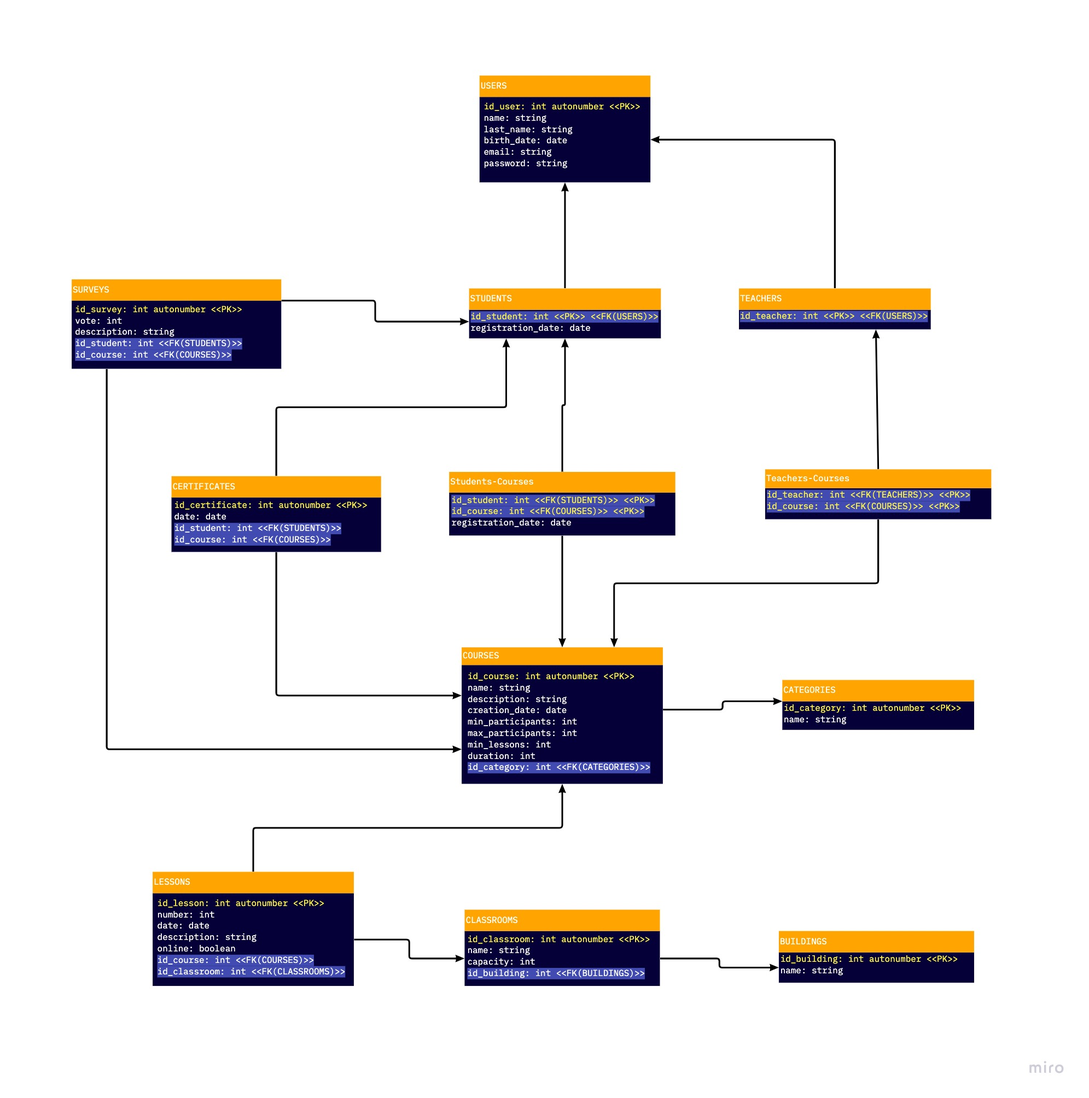
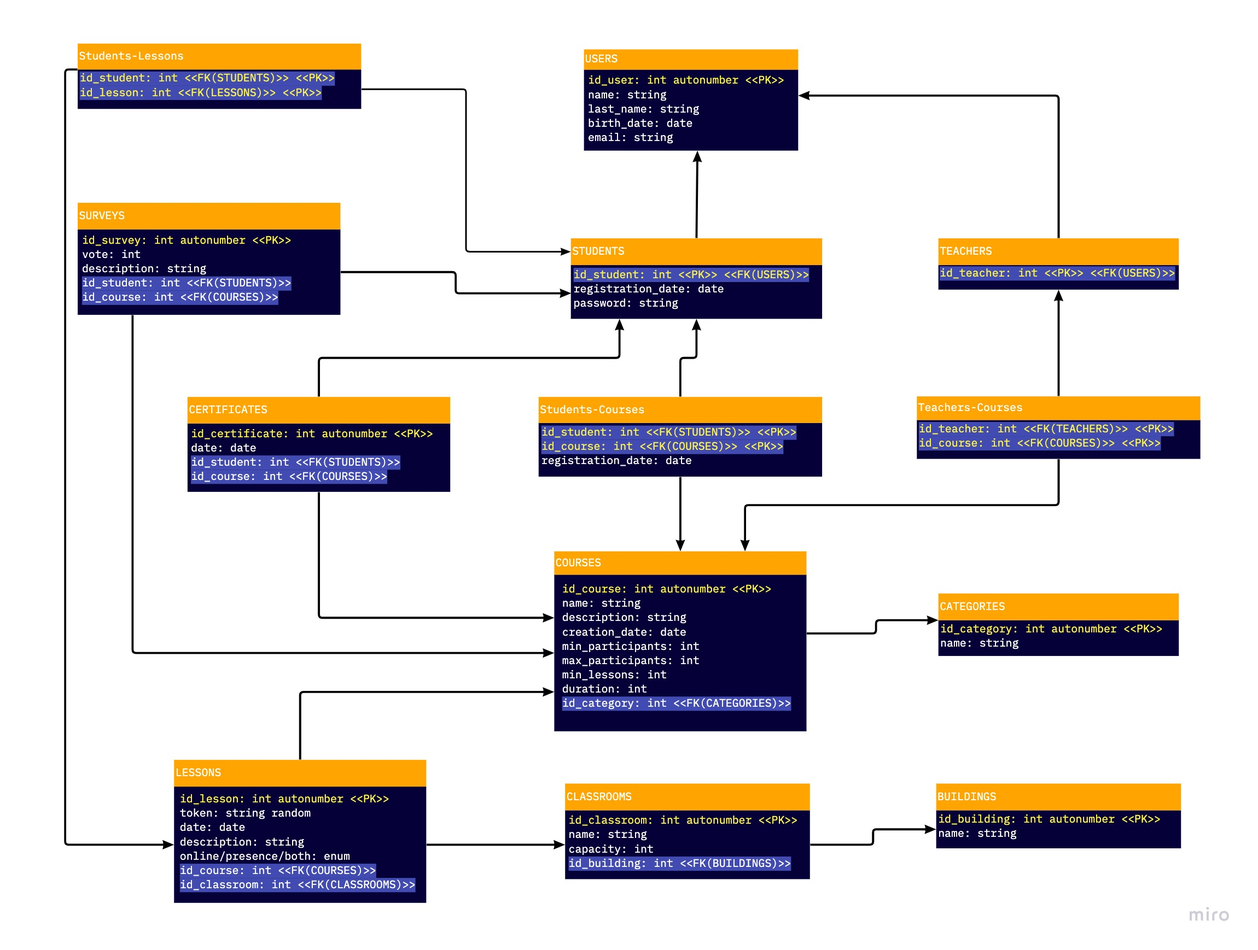
updated documentation
- created db
- finished db definitions
- finisched shemas definitions

diff --git a/docs/html/pcto_webapp_plan.html b/docs/html/pcto_webapp_plan.html
@@ -2,7 +2,7 @@
 <html lang="en">
 <head>
 <title>PCTO Webapp Plan</title>
-<!-- 2022-04-20 Wed 22:20 -->
+<!-- 2022-04-22 Fri 19:11 -->
 <meta charset="utf-8">
 <meta name="viewport" content="width=device-width, initial-scale=1">
 <meta name="generator" content="Org-mode">
@@ -211,6 +211,7 @@ $(function() {
 <li><a href="#sec-8">8. Progettazione vincoli di integrità</a>
 <ul class="nav">
 <li><a href="#sec-8-1">8.1. CHECKS nella creazione delle tabelle</a></li>
+<li><a href="#sec-8-2">8.2. Triggers</a></li>
 </ul>
 </li>
 </ul>
@@ -329,17 +330,19 @@ $(function() {
 
 <li>Le <b>Lezioni</b> sono formate da:
 <ul class="org-ul">
-<li>numero identificativo progressivo (esempio: lezione numero <b>5</b> del corso X)
+<li>token identificativo per partecipare
 </li>
 <li>descrizione degli argomenti spiegati
 </li>
 <li>Aula di esecuzione con la relativa capienza. (zoom se è online)
 </li>
-<li>flag che indica se la lezione è online o in presenza
+<li>enum che indica se la lezione è online o in presenza o entrambi
 </li>
 <li>corso di riferimento
 </li>
 <li>numero di iscrizioni (da confrontare con la capienza dell&rsquo;aula)
+</li>
+<li>il token viene mostrato nella dashboard dei docenti e verrà reso pubblico da loro. Gli studenti potranno certificare la presenza inserendo il token nella pagina della lezione oppure cliccando il bottone &ldquo;Partecipa&rdquo; -&gt; da pensare.
 </li>
 </ul>
 <p>
@@ -435,7 +438,7 @@ $(function() {
 </li>
 <li><code>[X]</code> Aggiungere tabella <b>Categorie</b> e aggiungere il campo in Corsi
 </li>
-<li><code>[&#xa0;]</code> Creazione <b>database</b>
+<li><code>[X]</code> Creazione <b>database</b>
 </li>
 </ul>
 <p>
@@ -520,133 +523,148 @@ $(function() {
 <div class="outline-text-3" id="text-8-1">
 <div class="org-src-container">
 
-<pre class="src src-sql">    <span style="color: #928374;">-- </span><span style="color: #928374;">tabella utenti</span>
-    <span style="color: #fb4934;">CREATE</span> <span style="color: #fb4934;">TABLE</span> <span style="color: #b8bb26;">users</span> (
-        id_user <span style="color: #fabd2f;">INT</span> AUTO_INCREMENT,
-        first_name <span style="color: #fabd2f;">VARCHAR</span>(<span style="color: #d3869b; font-weight: bold;">20</span>) <span style="color: #fb4934;">NOT</span> <span style="color: #fb4934;">NULL</span>,
-        last_name <span style="color: #fabd2f;">VARCHAR</span>(<span style="color: #d3869b; font-weight: bold;">20</span>) <span style="color: #fb4934;">NOT</span> <span style="color: #fb4934;">NULL</span>,
-        birth_date <span style="color: #fabd2f;">DATE</span> <span style="color: #fb4934;">NOT</span> <span style="color: #fb4934;">NULL</span>,
-        email <span style="color: #fabd2f;">VARCHAR</span>(<span style="color: #d3869b; font-weight: bold;">30</span>) <span style="color: #fb4934;">NOT</span> <span style="color: #fb4934;">NULL</span>,
-        password <span style="color: #fabd2f;">VARCHAR</span>(<span style="color: #d3869b; font-weight: bold;">15</span>) <span style="color: #fb4934;">NOT</span> <span style="color: #fb4934;">NULL</span>
-        <span style="color: #fb4934;">PRIMARY</span> <span style="color: #fb4934;">KEY</span>(id_user),
+<pre class="src src-sql">    <span style="color: #a89984;">-- </span><span style="color: #a89984;">tabella utenti</span>
+    <span style="color: #9d0006;">CREATE</span> <span style="color: #9d0006;">TABLE</span> <span style="color: #b57614;">users</span> (
+        id_user <span style="color: #8f3f71;">INT</span> AUTO_INCREMENT,
+        first_name <span style="color: #8f3f71;">VARCHAR</span>(<span style="color: #8f3f71; font-weight: bold;">20</span>) <span style="color: #9d0006;">NOT</span> <span style="color: #9d0006;">NULL</span>,
+        last_name <span style="color: #8f3f71;">VARCHAR</span>(<span style="color: #8f3f71; font-weight: bold;">20</span>) <span style="color: #9d0006;">NOT</span> <span style="color: #9d0006;">NULL</span>,
+        birth_date <span style="color: #8f3f71;">DATE</span> <span style="color: #9d0006;">NOT</span> <span style="color: #9d0006;">NULL</span>,
+        email <span style="color: #8f3f71;">VARCHAR</span>(<span style="color: #8f3f71; font-weight: bold;">30</span>) <span style="color: #9d0006;">NOT</span> <span style="color: #9d0006;">NULL</span>,
+        <span style="color: #9d0006;">PRIMARY</span> <span style="color: #9d0006;">KEY</span>(id_user)
     );
 
-    <span style="color: #928374;">-- </span><span style="color: #928374;">tabella docenti</span>
-    <span style="color: #fb4934;">CREATE</span> <span style="color: #fb4934;">TABLE</span> <span style="color: #b8bb26;">teachers</span> (
-        id_teacher <span style="color: #fabd2f;">INT</span>,
-        <span style="color: #fb4934;">PRIMARY</span> <span style="color: #fb4934;">KEY</span>(id_teacher),
-        <span style="color: #fb4934;">FOREIGN</span> <span style="color: #fb4934;">KEY</span>(id_teacher) <span style="color: #fb4934;">REFERENCES</span> users(id_user)
+    <span style="color: #a89984;">-- </span><span style="color: #a89984;">tabella docenti</span>
+    <span style="color: #9d0006;">CREATE</span> <span style="color: #9d0006;">TABLE</span> <span style="color: #b57614;">teachers</span> (
+        id_teacher <span style="color: #8f3f71;">INT</span>,
+        <span style="color: #9d0006;">PRIMARY</span> <span style="color: #9d0006;">KEY</span>(id_teacher),
+        <span style="color: #9d0006;">FOREIGN</span> <span style="color: #9d0006;">KEY</span>(id_teacher) <span style="color: #9d0006;">REFERENCES</span> users(id_user)
     );
 
-    <span style="color: #928374;">-- </span><span style="color: #928374;">tabella studenti</span>
-    <span style="color: #fb4934;">CREATE</span> <span style="color: #fb4934;">TABLE</span> <span style="color: #b8bb26;">students</span> (
-        id_student <span style="color: #fabd2f;">INT</span>,
-        registration_date <span style="color: #fabd2f;">DATE</span> <span style="color: #fb4934;">NOT</span> <span style="color: #fb4934;">NULL</span>
-        <span style="color: #fb4934;">PRIMARY</span> <span style="color: #fb4934;">KEY</span>(id_student),
-        <span style="color: #fb4934;">FOREIGN</span> <span style="color: #fb4934;">KEY</span>(id_student) <span style="color: #fb4934;">REFERENCES</span> users(id_user)
+    <span style="color: #a89984;">-- </span><span style="color: #a89984;">tabella studenti</span>
+    <span style="color: #9d0006;">CREATE</span> <span style="color: #9d0006;">TABLE</span> <span style="color: #b57614;">students</span> (
+        id_student <span style="color: #8f3f71;">INT</span>,
+        registration_date <span style="color: #8f3f71;">DATE</span> <span style="color: #9d0006;">NOT</span> <span style="color: #9d0006;">NULL</span>,
+        password <span style="color: #8f3f71;">VARCHAR</span>(<span style="color: #8f3f71; font-weight: bold;">15</span>) <span style="color: #9d0006;">NOT</span> <span style="color: #9d0006;">NULL</span>,
+        <span style="color: #9d0006;">PRIMARY</span> <span style="color: #9d0006;">KEY</span>(id_student),
+        <span style="color: #9d0006;">FOREIGN</span> <span style="color: #9d0006;">KEY</span>(id_student) <span style="color: #9d0006;">REFERENCES</span> users(id_user)
     );
 
-    <span style="color: #928374;">-- </span><span style="color: #928374;">tabella categorie</span>
-    <span style="color: #fb4934;">CREATE</span> <span style="color: #fb4934;">TABLE</span> <span style="color: #b8bb26;">categories</span> (
-        id_category <span style="color: #fabd2f;">INT</span> AUTO_INCREMENT,
-        c_name <span style="color: #fabd2f;">VARCHAR</span>(<span style="color: #d3869b; font-weight: bold;">50</span>) <span style="color: #fb4934;">NOT</span> <span style="color: #fb4934;">NULL</span>
-        <span style="color: #fb4934;">PRIMARY</span> <span style="color: #fb4934;">KEY</span>(id_category)
+    <span style="color: #a89984;">-- </span><span style="color: #a89984;">tabella categorie</span>
+    <span style="color: #9d0006;">CREATE</span> <span style="color: #9d0006;">TABLE</span> <span style="color: #b57614;">categories</span> (
+        id_category <span style="color: #8f3f71;">INT</span> AUTO_INCREMENT,
+        c_name <span style="color: #8f3f71;">VARCHAR</span>(<span style="color: #8f3f71; font-weight: bold;">50</span>) <span style="color: #9d0006;">NOT</span> <span style="color: #9d0006;">NULL</span>,
+        <span style="color: #9d0006;">PRIMARY</span> <span style="color: #9d0006;">KEY</span>(id_category)
     );
 
-    <span style="color: #928374;">-- </span><span style="color: #928374;">tabella corsi</span>
-    <span style="color: #fb4934;">CREATE</span> <span style="color: #fb4934;">TABLE</span> <span style="color: #b8bb26;">courses</span> (
-        id_course <span style="color: #fabd2f;">INT</span> AUTO_INCREMENT,
-        c_name <span style="color: #fabd2f;">VARCHAR</span>(<span style="color: #d3869b; font-weight: bold;">30</span>) <span style="color: #fb4934;">NOT</span> <span style="color: #fb4934;">NULL</span>,
-        description <span style="color: #fabd2f;">VARCHAR</span>(<span style="color: #d3869b; font-weight: bold;">100</span>),
-        creation_date <span style="color: #fabd2f;">DATE</span> <span style="color: #fb4934;">NOT</span> <span style="color: #fb4934;">NULL</span>,
-        max_partecipants <span style="color: #fabd2f;">INT</span> <span style="color: #fb4934;">CHECK</span>(max_partecipants &gt; <span style="color: #d3869b; font-weight: bold;">0</span>),
-        min_partecipants <span style="color: #fabd2f;">INT</span> <span style="color: #fb4934;">CHECK</span>(min_partecipants &gt; <span style="color: #d3869b; font-weight: bold;">0</span>),
-        min_lessons <span style="color: #fabd2f;">INT</span> <span style="color: #fb4934;">NOT</span> <span style="color: #fb4934;">NULL</span> <span style="color: #fb4934;">CHECK</span>(min_lessons &gt;= <span style="color: #d3869b; font-weight: bold;">0</span>),
-        duration <span style="color: #fabd2f;">INT</span> <span style="color: #fb4934;">NOT</span> <span style="color: #fb4934;">NULL</span> <span style="color: #fb4934;">CHECK</span>(duration &gt; <span style="color: #d3869b; font-weight: bold;">0</span>),
-        id_category <span style="color: #fabd2f;">INT</span> <span style="color: #fb4934;">NOT</span> <span style="color: #fb4934;">NULL</span>,
-        <span style="color: #fb4934;">PRIMARY</span> <span style="color: #fb4934;">KEY</span>(id_course),
-        <span style="color: #fb4934;">FOREIGN</span> <span style="color: #fb4934;">KEY</span>(id_category) <span style="color: #fb4934;">REFERENCES</span> categories(id_category)
+    <span style="color: #a89984;">-- </span><span style="color: #a89984;">tabella corsi</span>
+    <span style="color: #9d0006;">CREATE</span> <span style="color: #9d0006;">TABLE</span> <span style="color: #b57614;">courses</span> (
+        id_course <span style="color: #8f3f71;">INT</span> AUTO_INCREMENT,
+        c_name <span style="color: #8f3f71;">VARCHAR</span>(<span style="color: #8f3f71; font-weight: bold;">30</span>) <span style="color: #9d0006;">NOT</span> <span style="color: #9d0006;">NULL</span>,
+        description <span style="color: #8f3f71;">VARCHAR</span>(<span style="color: #8f3f71; font-weight: bold;">100</span>),
+        creation_date <span style="color: #8f3f71;">DATE</span> <span style="color: #9d0006;">NOT</span> <span style="color: #9d0006;">NULL</span>,
+        max_partecipants <span style="color: #8f3f71;">INT</span> <span style="color: #9d0006;">CHECK</span>(max_partecipants &gt; <span style="color: #8f3f71; font-weight: bold;">0</span>),
+        min_partecipants <span style="color: #8f3f71;">INT</span> <span style="color: #9d0006;">CHECK</span>(min_partecipants &gt; <span style="color: #8f3f71; font-weight: bold;">0</span>),
+        min_lessons <span style="color: #8f3f71;">INT</span> <span style="color: #9d0006;">NOT</span> <span style="color: #9d0006;">NULL</span> <span style="color: #9d0006;">CHECK</span>(min_lessons &gt;= <span style="color: #8f3f71; font-weight: bold;">0</span>),
+        duration <span style="color: #8f3f71;">INT</span> <span style="color: #9d0006;">NOT</span> <span style="color: #9d0006;">NULL</span> <span style="color: #9d0006;">CHECK</span>(duration &gt; <span style="color: #8f3f71; font-weight: bold;">0</span>),
+        id_category <span style="color: #8f3f71;">INT</span> <span style="color: #9d0006;">NOT</span> <span style="color: #9d0006;">NULL</span>,
+        <span style="color: #9d0006;">PRIMARY</span> <span style="color: #9d0006;">KEY</span>(id_course),
+        <span style="color: #9d0006;">FOREIGN</span> <span style="color: #9d0006;">KEY</span>(id_category) <span style="color: #9d0006;">REFERENCES</span> categories(id_category)
     );
 
-    <span style="color: #928374;">-- </span><span style="color: #928374;">tabella studenti-corsi</span>
-    <span style="color: #fb4934;">CREATE</span> <span style="color: #fb4934;">TABLE</span> <span style="color: #b8bb26;">students</span>-courses (
-        id_student <span style="color: #fabd2f;">INT</span>,
-        id_course <span style="color: #fabd2f;">INT</span>,
-        registration_date <span style="color: #fabd2f;">date</span> <span style="color: #fb4934;">NOT</span> <span style="color: #fb4934;">NULL</span>,
-        <span style="color: #fb4934;">PRIMARY</span> <span style="color: #fb4934;">KEY</span>(id_student, id_course)
+    <span style="color: #a89984;">-- </span><span style="color: #a89984;">tabella studenti-corsi</span>
+    <span style="color: #9d0006;">CREATE</span> <span style="color: #9d0006;">TABLE</span> <span style="color: #b57614;">students_courses</span> (
+        id_student <span style="color: #8f3f71;">INT</span>,
+        id_course <span style="color: #8f3f71;">INT</span>,
+        registration_date <span style="color: #8f3f71;">date</span> <span style="color: #9d0006;">NOT</span> <span style="color: #9d0006;">NULL</span>,
+        <span style="color: #9d0006;">PRIMARY</span> <span style="color: #9d0006;">KEY</span>(id_student, id_course)
     );
 
-    <span style="color: #928374;">-- </span><span style="color: #928374;">tabella studenti-corsi</span>
-    <span style="color: #fb4934;">CREATE</span> <span style="color: #fb4934;">TABLE</span> <span style="color: #b8bb26;">teachers</span>-courses (
-        id_teacher <span style="color: #fabd2f;">INT</span>,
-        id_course <span style="color: #fabd2f;">INT</span>,
-        <span style="color: #fb4934;">PRIMARY</span> <span style="color: #fb4934;">KEY</span>(id_teacher, id_course)
+    <span style="color: #a89984;">-- </span><span style="color: #a89984;">tabella studenti-corsi</span>
+    <span style="color: #9d0006;">CREATE</span> <span style="color: #9d0006;">TABLE</span> <span style="color: #b57614;">teachers_courses</span> (
+        id_teacher <span style="color: #8f3f71;">INT</span>,
+        id_course <span style="color: #8f3f71;">INT</span>,
+        <span style="color: #9d0006;">PRIMARY</span> <span style="color: #9d0006;">KEY</span>(id_teacher, id_course)
     );
 
-    <span style="color: #928374;">-- </span><span style="color: #928374;">tabella edifici</span>
-    <span style="color: #fb4934;">CREATE</span> <span style="color: #fb4934;">TABLE</span> <span style="color: #b8bb26;">buildings</span> (
-        id_building <span style="color: #fabd2f;">INT</span> AUTO_INCREMENT,
-        b_name <span style="color: #fabd2f;">VARCHAR</span>(<span style="color: #d3869b; font-weight: bold;">15</span>) <span style="color: #fb4934;">NOT</span> <span style="color: #fb4934;">NULL</span>,
-        <span style="color: #fb4934;">PRIMARY</span> <span style="color: #fb4934;">KEY</span>(id_building)
+    <span style="color: #a89984;">-- </span><span style="color: #a89984;">tabella studenti-lezioni</span>
+    <span style="color: #9d0006;">CREATE</span> <span style="color: #9d0006;">TABLE</span> <span style="color: #b57614;">students_lessons</span> (
+        id_teacher <span style="color: #8f3f71;">INT</span>,
+        id_course <span style="color: #8f3f71;">INT</span>,
+        <span style="color: #9d0006;">PRIMARY</span> <span style="color: #9d0006;">KEY</span>(id_teacher, id_course)
     );
 
-    <span style="color: #928374;">-- </span><span style="color: #928374;">tabella aule</span>
-    <span style="color: #fb4934;">CREATE</span> <span style="color: #fb4934;">TABLE</span> <span style="color: #b8bb26;">classrooms</span> (
-        id_classroom <span style="color: #fabd2f;">INT</span> AUTO_INCREMENT,
-        c_name <span style="color: #fabd2f;">VARCHAR</span>(<span style="color: #d3869b; font-weight: bold;">15</span>) <span style="color: #fb4934;">NOT</span> <span style="color: #fb4934;">NULL</span>,
-        capacity <span style="color: #fabd2f;">INT</span> <span style="color: #fb4934;">NOT</span> <span style="color: #fb4934;">NULL</span> <span style="color: #fb4934;">CHECK</span>(capacity &gt; <span style="color: #d3869b; font-weight: bold;">0</span>),
-        id_building <span style="color: #fabd2f;">INT</span> <span style="color: #fb4934;">NOT</span> <span style="color: #fb4934;">NULL</span>,
-        <span style="color: #fb4934;">PRIMARY</span> <span style="color: #fb4934;">KEY</span>(id_classroom),
-        <span style="color: #fb4934;">FOREIGN</span> <span style="color: #fb4934;">KEY</span>(id_building) <span style="color: #fb4934;">REFERENCES</span> buildings(id_building)
+    <span style="color: #a89984;">-- </span><span style="color: #a89984;">tabella edifici</span>
+    <span style="color: #9d0006;">CREATE</span> <span style="color: #9d0006;">TABLE</span> <span style="color: #b57614;">buildings</span> (
+        id_building <span style="color: #8f3f71;">INT</span> AUTO_INCREMENT,
+        b_name <span style="color: #8f3f71;">VARCHAR</span>(<span style="color: #8f3f71; font-weight: bold;">15</span>) <span style="color: #9d0006;">NOT</span> <span style="color: #9d0006;">NULL</span>,
+        <span style="color: #9d0006;">PRIMARY</span> <span style="color: #9d0006;">KEY</span>(id_building)
     );
 
-    <span style="color: #fb4934;">CREATE</span> <span style="color: #fb4934;">TABLE</span> <span style="color: #b8bb26;">lessons</span> (
-        id_lesson <span style="color: #fabd2f;">INT</span> AUTO_INCREMENT,
-        <span style="color: #fb4934;">number</span> <span style="color: #fabd2f;">INT</span> <span style="color: #fb4934;">NOT</span> <span style="color: #fb4934;">NULL</span>,
-        l_date <span style="color: #fabd2f;">DATE</span> <span style="color: #fb4934;">NOT</span> <span style="color: #fb4934;">NULL</span>,
-        description <span style="color: #fabd2f;">VARCHAR</span>(<span style="color: #d3869b; font-weight: bold;">100</span>),
-        online <span style="color: #fabd2f;">BOOLEAN</span> <span style="color: #fb4934;">NOT</span> <span style="color: #fb4934;">NULL</span>,
-        id_course <span style="color: #fabd2f;">INT</span> <span style="color: #fb4934;">NOT</span> <span style="color: #fb4934;">NULL</span>,
-        id_classroom <span style="color: #fabd2f;">INT</span> <span style="color: #fb4934;">NOT</span> <span style="color: #fb4934;">NULL</span>,
-        <span style="color: #fb4934;">PRIMARY</span> <span style="color: #fb4934;">KEY</span>(id_lesson),
-        <span style="color: #fb4934;">FOREIGN</span> <span style="color: #fb4934;">KEY</span>(id_course) <span style="color: #fb4934;">REFERENCES</span> courses(id_course),
-        <span style="color: #fb4934;">FOREIGN</span> <span style="color: #fb4934;">KEY</span>(id_classroom) <span style="color: #fb4934;">REFERENCES</span> classrooms(id_classroom)
+    <span style="color: #a89984;">-- </span><span style="color: #a89984;">tabella aule</span>
+    <span style="color: #9d0006;">CREATE</span> <span style="color: #9d0006;">TABLE</span> <span style="color: #b57614;">classrooms</span> (
+        id_classroom <span style="color: #8f3f71;">INT</span> AUTO_INCREMENT,
+        c_name <span style="color: #8f3f71;">VARCHAR</span>(<span style="color: #8f3f71; font-weight: bold;">15</span>) <span style="color: #9d0006;">NOT</span> <span style="color: #9d0006;">NULL</span>,
+        capacity <span style="color: #8f3f71;">INT</span> <span style="color: #9d0006;">NOT</span> <span style="color: #9d0006;">NULL</span> <span style="color: #9d0006;">CHECK</span>(capacity &gt; <span style="color: #8f3f71; font-weight: bold;">0</span>),
+        id_building <span style="color: #8f3f71;">INT</span> <span style="color: #9d0006;">NOT</span> <span style="color: #9d0006;">NULL</span>,
+        <span style="color: #9d0006;">PRIMARY</span> <span style="color: #9d0006;">KEY</span>(id_classroom),
+        <span style="color: #9d0006;">FOREIGN</span> <span style="color: #9d0006;">KEY</span>(id_building) <span style="color: #9d0006;">REFERENCES</span> buildings(id_building)
     );
 
-    <span style="color: #928374;">-- </span><span style="color: #928374;">tabella attestati</span>
-    <span style="color: #fb4934;">CREATE</span> <span style="color: #fb4934;">TABLE</span> <span style="color: #b8bb26;">certificates</span> (
-        id_certificate <span style="color: #fabd2f;">INT</span> AUTO_INCREMENT,
-        cartification_date <span style="color: #fabd2f;">DATE</span> <span style="color: #fb4934;">NOT</span> <span style="color: #fb4934;">NULL</span>,
-        id_student <span style="color: #fabd2f;">INT</span> <span style="color: #fb4934;">NOT</span> <span style="color: #fb4934;">NULL</span>,
-        id_course <span style="color: #fabd2f;">INT</span> <span style="color: #fb4934;">NOT</span> <span style="color: #fb4934;">NULL</span>,
-        <span style="color: #fb4934;">PRIMARY</span> <span style="color: #fb4934;">KEY</span>(id_certificate),
-        <span style="color: #fb4934;">FOREIGN</span> <span style="color: #fb4934;">KEY</span>(id_student) <span style="color: #fb4934;">REFERENCES</span> students(id_student),
-        <span style="color: #fb4934;">FOREIGN</span> <span style="color: #fb4934;">KEY</span>(id_course) <span style="color: #fb4934;">REFERENCES</span> courses(id_course),
+    <span style="color: #9d0006;">CREATE</span> <span style="color: #9d0006;">TABLE</span> <span style="color: #b57614;">lessons</span> (
+        id_lesson <span style="color: #8f3f71;">INT</span> AUTO_INCREMENT,
+        token <span style="color: #8f3f71;">INT</span> <span style="color: #9d0006;">NOT</span> <span style="color: #9d0006;">NULL</span>,
+        l_date <span style="color: #8f3f71;">DATE</span> <span style="color: #9d0006;">NOT</span> <span style="color: #9d0006;">NULL</span>,
+        description <span style="color: #8f3f71;">VARCHAR</span>(<span style="color: #8f3f71; font-weight: bold;">100</span>),
+        mode ENUM(<span style="color: #79740e;">'online'</span>, <span style="color: #79740e;">'presence'</span>, <span style="color: #79740e;">'both'</span>) <span style="color: #9d0006;">NOT</span> <span style="color: #9d0006;">NULL</span>,
+        id_course <span style="color: #8f3f71;">INT</span> <span style="color: #9d0006;">NOT</span> <span style="color: #9d0006;">NULL</span>,
+        id_classroom <span style="color: #8f3f71;">INT</span> <span style="color: #9d0006;">NOT</span> <span style="color: #9d0006;">NULL</span>,
+        <span style="color: #9d0006;">PRIMARY</span> <span style="color: #9d0006;">KEY</span>(id_lesson),
+        <span style="color: #9d0006;">FOREIGN</span> <span style="color: #9d0006;">KEY</span>(id_course) <span style="color: #9d0006;">REFERENCES</span> courses(id_course),
+        <span style="color: #9d0006;">FOREIGN</span> <span style="color: #9d0006;">KEY</span>(id_classroom) <span style="color: #9d0006;">REFERENCES</span> classrooms(id_classroom)
     );
 
-    <span style="color: #928374;">-- </span><span style="color: #928374;">tabella sondaggi</span>
-    <span style="color: #fb4934;">CREATE</span> <span style="color: #fb4934;">TABLE</span> <span style="color: #b8bb26;">surveys</span> (
-        id_survey <span style="color: #fabd2f;">INT</span> AUTO_INCREMENT,
-        vote <span style="color: #fabd2f;">INT</span> <span style="color: #fb4934;">NOT</span> <span style="color: #fb4934;">NULL</span> <span style="color: #fb4934;">CHECK</span>(vote &gt;= <span style="color: #d3869b; font-weight: bold;">0</span> <span style="color: #fb4934;">AND</span> vote &lt;= <span style="color: #d3869b; font-weight: bold;">5</span>),
-        description <span style="color: #fabd2f;">VARCHAR</span>(<span style="color: #d3869b; font-weight: bold;">100</span>),
-        id_student <span style="color: #fabd2f;">INT</span> <span style="color: #fb4934;">NOT</span> <span style="color: #fb4934;">NULL</span>,
-        id_course <span style="color: #fabd2f;">INT</span> <span style="color: #fb4934;">NOT</span> <span style="color: #fb4934;">NULL</span>,
-        <span style="color: #fb4934;">PRIMARY</span> <span style="color: #fb4934;">KEY</span>(id_certificate),
-        <span style="color: #fb4934;">FOREIGN</span> <span style="color: #fb4934;">KEY</span>(id_student) <span style="color: #fb4934;">REFERENCES</span> students(id_student),
-        <span style="color: #fb4934;">FOREIGN</span> <span style="color: #fb4934;">KEY</span>(id_course) <span style="color: #fb4934;">REFERENCES</span> courses(id_course),
+    <span style="color: #a89984;">-- </span><span style="color: #a89984;">tabella attestati</span>
+    <span style="color: #9d0006;">CREATE</span> <span style="color: #9d0006;">TABLE</span> <span style="color: #b57614;">certificates</span> (
+        id_certificate <span style="color: #8f3f71;">INT</span> AUTO_INCREMENT,
+        cartification_date <span style="color: #8f3f71;">DATE</span> <span style="color: #9d0006;">NOT</span> <span style="color: #9d0006;">NULL</span>,
+        id_student <span style="color: #8f3f71;">INT</span> <span style="color: #9d0006;">NOT</span> <span style="color: #9d0006;">NULL</span>,
+        id_course <span style="color: #8f3f71;">INT</span> <span style="color: #9d0006;">NOT</span> <span style="color: #9d0006;">NULL</span>,
+        <span style="color: #9d0006;">PRIMARY</span> <span style="color: #9d0006;">KEY</span>(id_certificate),
+        <span style="color: #9d0006;">FOREIGN</span> <span style="color: #9d0006;">KEY</span>(id_student) <span style="color: #9d0006;">REFERENCES</span> students(id_student),
+        <span style="color: #9d0006;">FOREIGN</span> <span style="color: #9d0006;">KEY</span>(id_course) <span style="color: #9d0006;">REFERENCES</span> courses(id_course)
     );
 
-
+    <span style="color: #a89984;">-- </span><span style="color: #a89984;">tabella sondaggi</span>
+    <span style="color: #9d0006;">CREATE</span> <span style="color: #9d0006;">TABLE</span> <span style="color: #b57614;">surveys</span> (
+        id_survey <span style="color: #8f3f71;">INT</span> AUTO_INCREMENT,
+        vote <span style="color: #8f3f71;">INT</span> <span style="color: #9d0006;">NOT</span> <span style="color: #9d0006;">NULL</span> <span style="color: #9d0006;">CHECK</span>(vote &gt;= <span style="color: #8f3f71; font-weight: bold;">0</span> <span style="color: #9d0006;">AND</span> vote &lt;= <span style="color: #8f3f71; font-weight: bold;">5</span>),
+        description <span style="color: #8f3f71;">VARCHAR</span>(<span style="color: #8f3f71; font-weight: bold;">100</span>),
+        id_student <span style="color: #8f3f71;">INT</span> <span style="color: #9d0006;">NOT</span> <span style="color: #9d0006;">NULL</span>,
+        id_course <span style="color: #8f3f71;">INT</span> <span style="color: #9d0006;">NOT</span> <span style="color: #9d0006;">NULL</span>,
+        <span style="color: #9d0006;">PRIMARY</span> <span style="color: #9d0006;">KEY</span>(id_survey),
+        <span style="color: #9d0006;">FOREIGN</span> <span style="color: #9d0006;">KEY</span>(id_student) <span style="color: #9d0006;">REFERENCES</span> students(id_student),
+        <span style="color: #9d0006;">FOREIGN</span> <span style="color: #9d0006;">KEY</span>(id_course) <span style="color: #9d0006;">REFERENCES</span> courses(id_course)
+    );
 
 </pre>
 </div>
+</div>
+</div>
+
+<div id="outline-container-sec-8-2" class="outline-3">
+<h3 id="sec-8-2"><span class="section-number-3">8.2</span> Triggers</h3>
+<div class="outline-text-3" id="text-8-2">
+<ul class="org-ul">
+<li>When a lesson has to be inserted, checks the token. If the same token is already present, call rollback.
+</li>
+</ul>
 </div>
 </div>
 </div>
 </div></div></div>
 <footer id="postamble" class="">
 <div><p class="author">Author: Pietro Visconti</p>
-<p class="date">Created: 2022-04-20 Wed 22:20</p>
+<p class="date">Created: 2022-04-22 Fri 19:11</p>
 <p class="creator"><a href="http://www.gnu.org/software/emacs/">Emacs</a> 28.0.91 (<a href="http://orgmode.org">Org-mode</a> 9.6)</p>
 </div>
 </footer>
